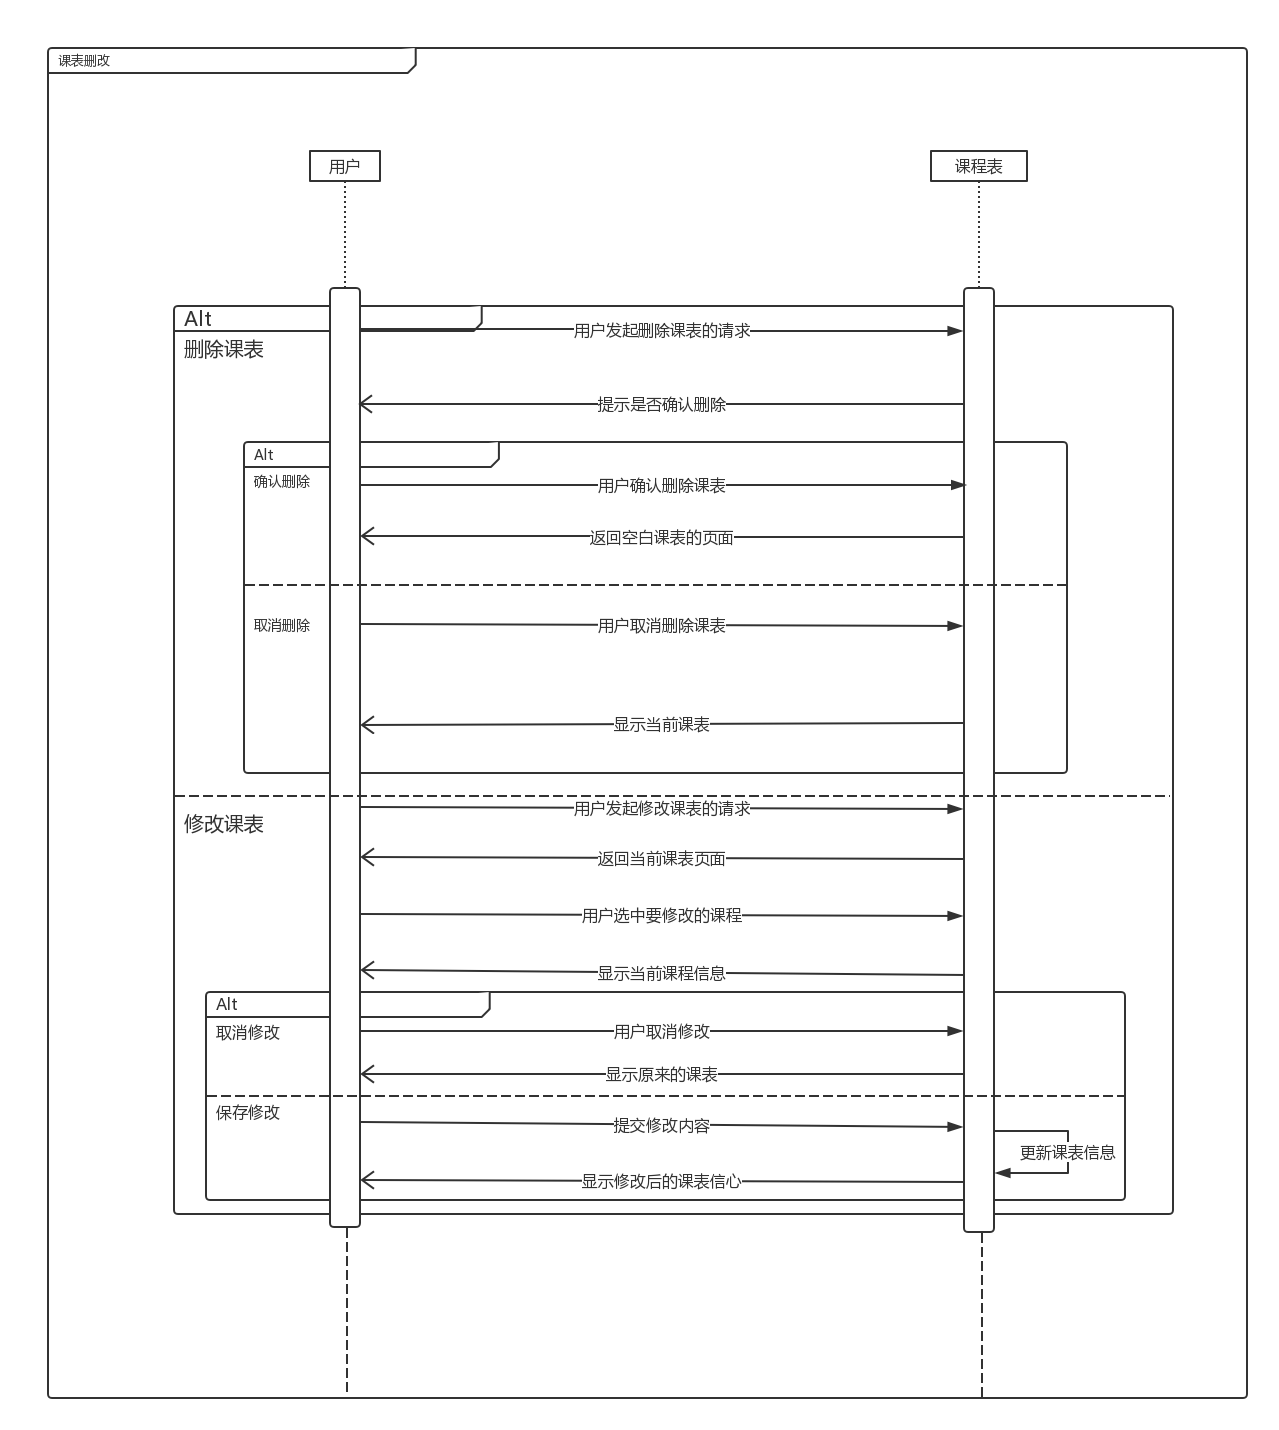
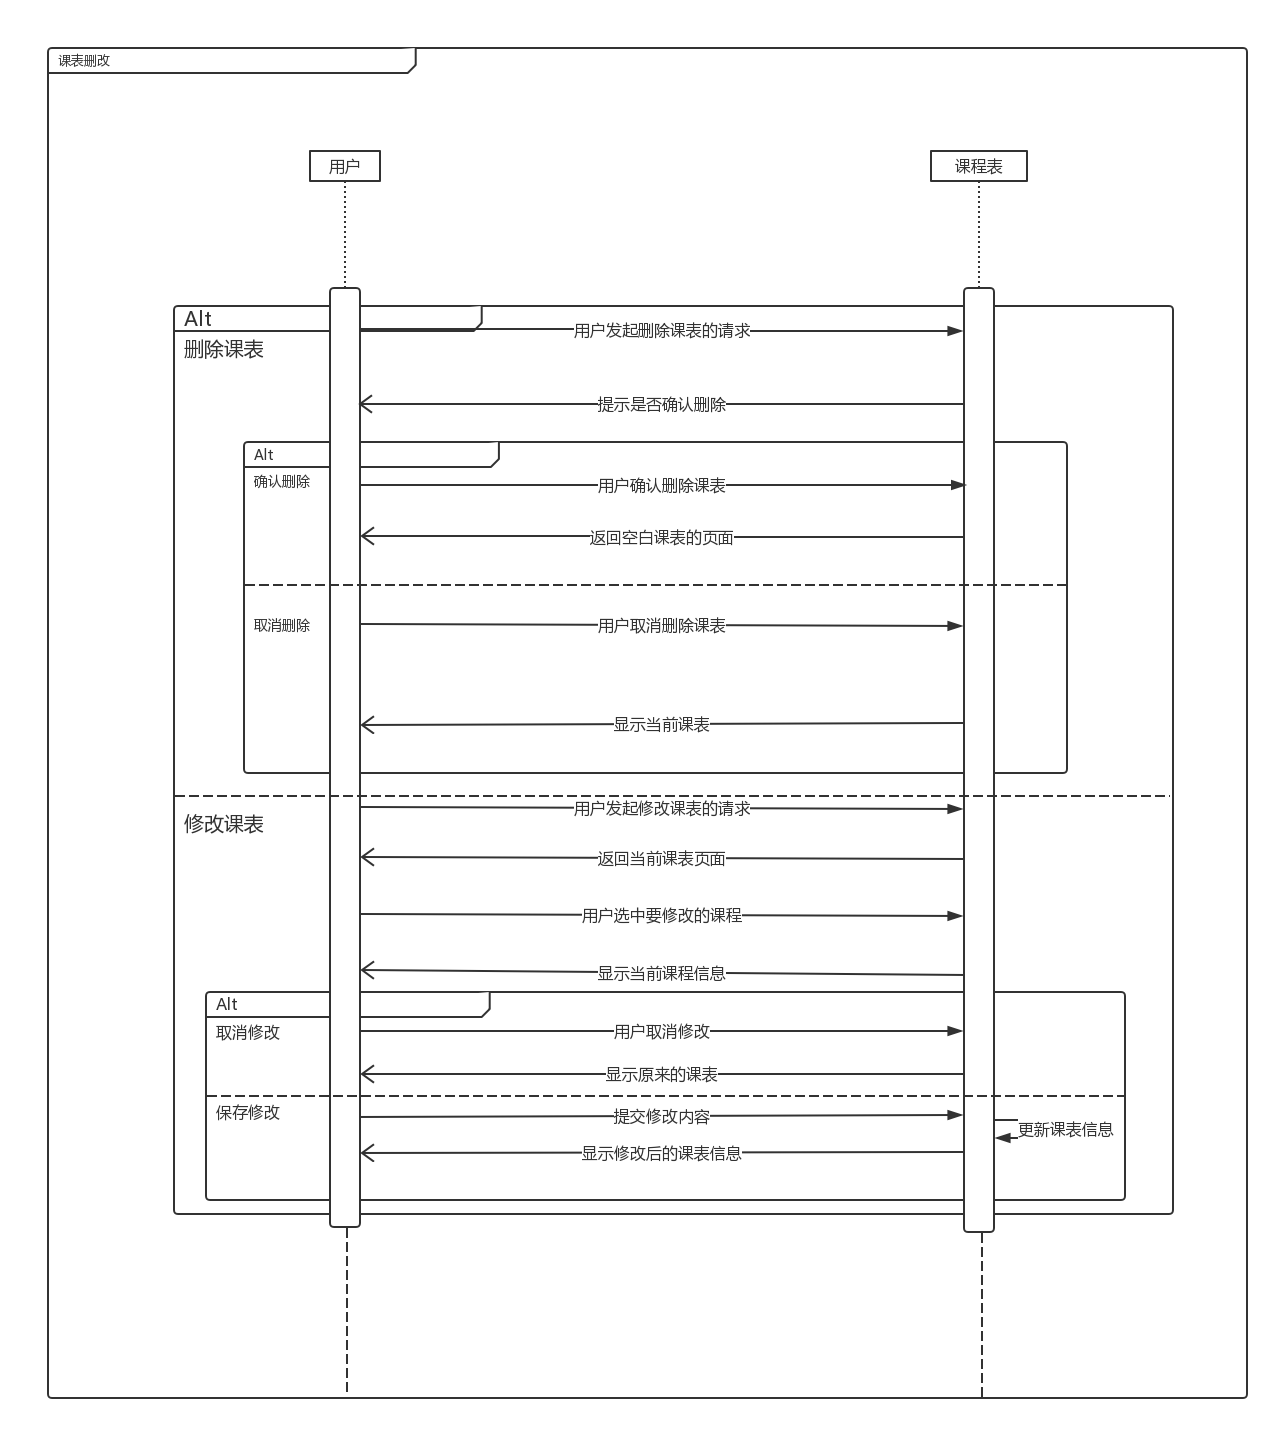
//修改

Changed region(s): [[0.2744, 0.7692, 0.8538, 0.8308]]

diff --git a/软件需求规格说明文档.md b/软件需求规格说明文档.md
@@ -343,10 +343,6 @@
 
 响应：系统提供用户可编辑的目标课程进行修改。</br>
 
-刺激：学生添加新的课程。 </br>
-
-响应：系统提供用户新建课程的编辑栏目。</br>
-
 刺激：学生取消修改课程信息。 </br>
 
 响应：系统应该取消所有更改。 </br>
@@ -362,7 +358,6 @@
 | User.modifyCourses               | 系统应当允许用户发起修改课表的请求                           |
 | Usrer.modifyCourses.select       | 当用户选择修改的课程后，系统应当允许进入该课程的详细信息页面 |
 | User.modifyCourses.select.modify | 当用户请求修改选中课程时，系统应当允许用户编辑该课程         |
-| User.modifyCourses.add           | 当用户请求添加课程时，系统应当允许进入添加课程的页面         |
 | User.modifyCourses.save          | 当用户保存修改内容时，系统应持久化用户更改选项               |
 | User.modifyCourses.save.cancel   | 当用户取消保存修改内容时，系统应取消所有更改                 |
 | User.modifyCourses.save.error   | 当用户修改的内容不符合要求时，系统应提示错误并要求重新编辑                |

diff --git a/软件需求列表.md b/软件需求列表.md
@@ -10,7 +10,7 @@
 
 | 需求ID | 需求名称                 | 需求描述                                                     | 需求来源 | 优先级 |
 | ------ | ------------------------ | ------------------------------------------------------------ | -------- | ------ |
-| FR1    | 课程表导入               | 学生可以从教务网导入课程表。                                 | 用户     | 4      |
+| FR1    | 课程表导入               | 系统应该提供一个教务平台登录接口，允许用户输入账号和密码                                 | 用户     | 4      |
 | FR2    | 课程表手动输入           | 学生可以手动输入课表。                                       | 用户     | 3      |
 | FR3    | 课表删改                 | 学生可以对课表修改/删除。                                    | 用户     | 4      |
 | FR4    | 日程新增                 | 学生可以对日程进行新增。                                     | 用户     | 4      |
